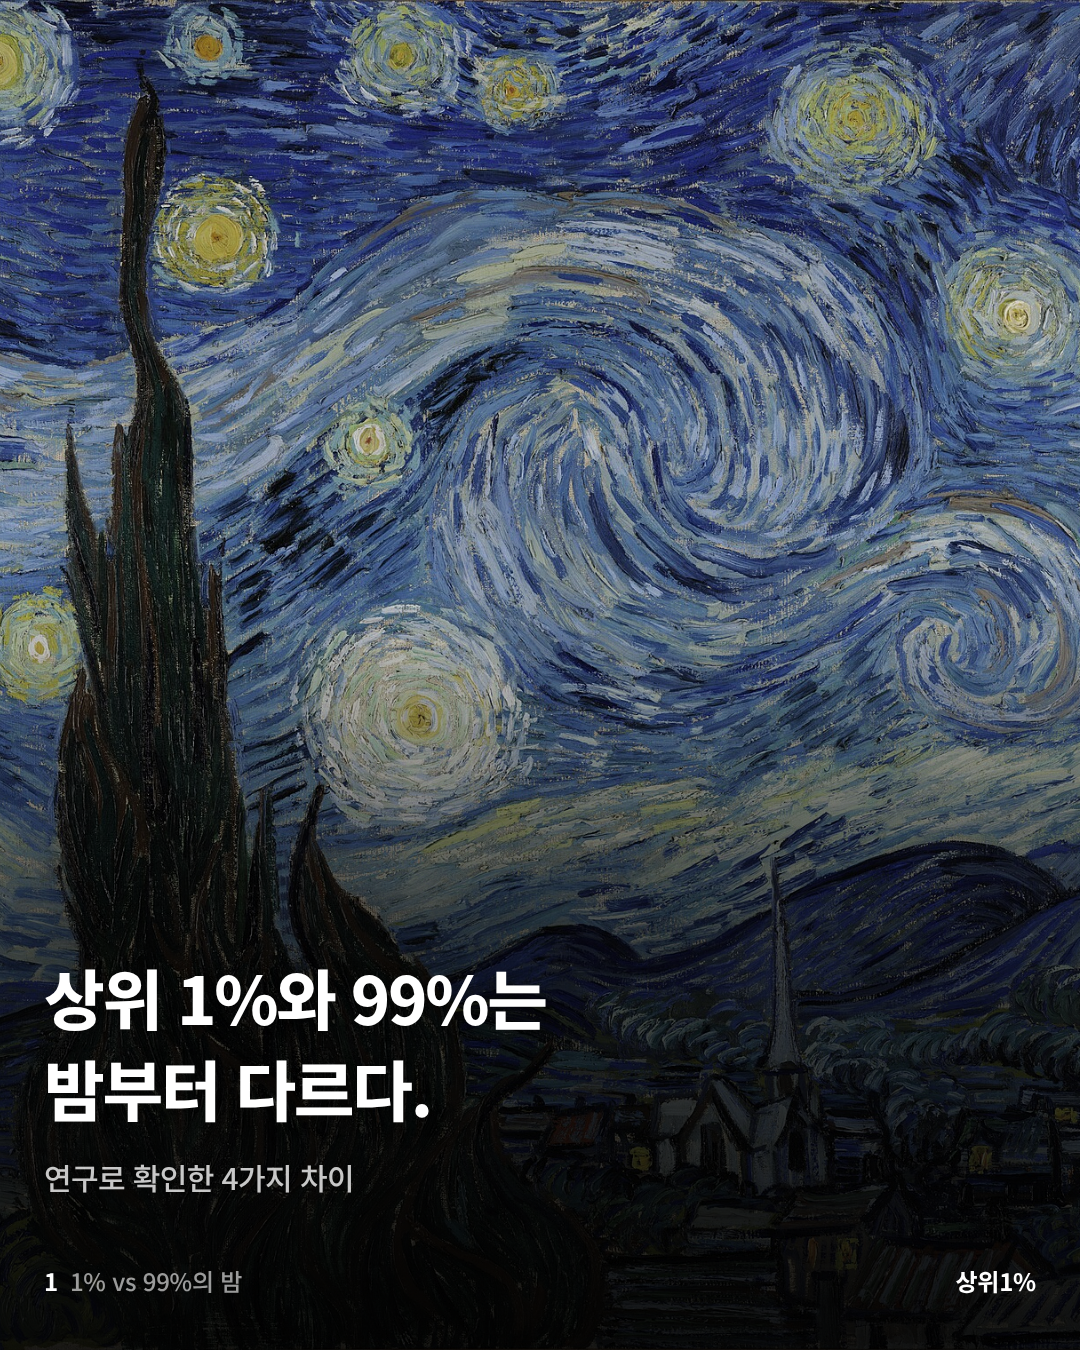
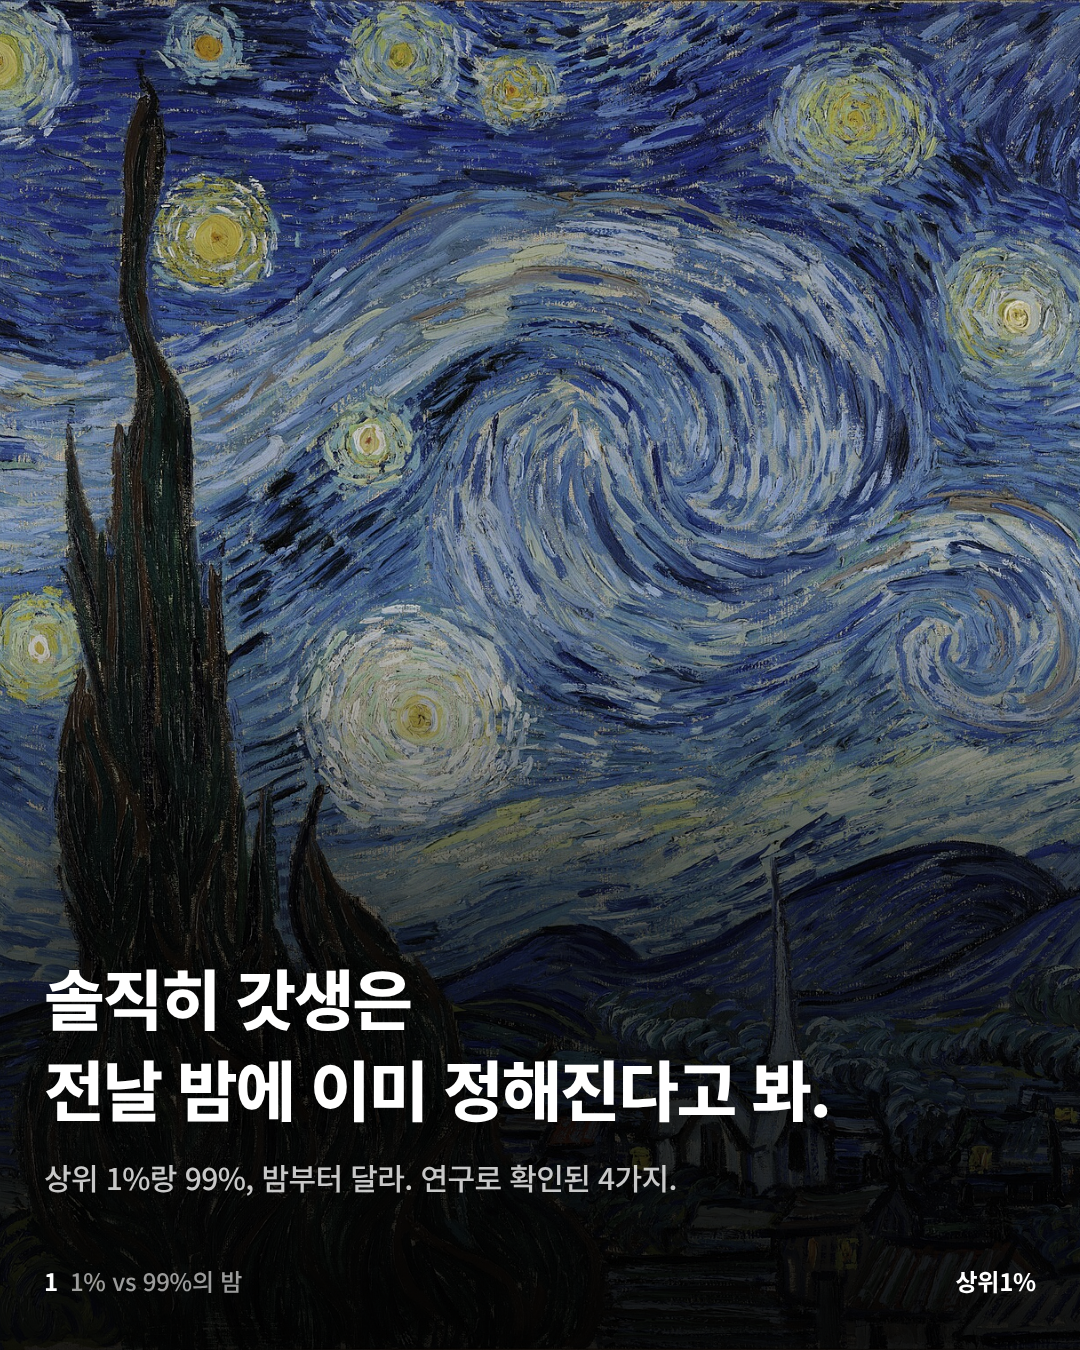
Use doodle character for 99% panels and casual tone copy
Claude-Session: https://claude.ai/code/session_01YBPD5mubkv2zYvzfUqKigS

Changed region(s): [[0.0306, 0.7156, 0.7639, 0.9022]]

diff --git a/carousel/styles/doodle-scenes.html b/carousel/styles/doodle-scenes.html
@@ -1,0 +1,202 @@
+<!doctype html>
+<html lang="ko">
+<head>
+<meta charset="utf-8">
+<title>99% 손그림 장면</title>
+<link href="https://fonts.googleapis.com/css2?family=Gaegu:wght@400;700&display=swap" rel="stylesheet">
+<style>
+  * { margin: 0; padding: 0; box-sizing: border-box; }
+  body { background: #ddd; padding: 40px; width: 1160px; }
+  .scene { width: 1080px; height: 675px; margin-bottom: 40px; }
+  .scene svg { display: block; width: 1080px; height: 675px; }
+</style>
+</head>
+<body>
+<div class="scene" id="study"></div>
+<div class="scene" id="weekend"></div>
+<div class="scene" id="workout"></div>
+<script>
+const INK = '#232323';
+const S = `stroke="${INK}" stroke-width="4" stroke-linejoin="round" stroke-linecap="round"`;
+const C = { wall:'#fbf8f1', stripe:'#f3ecdf', floor:'#f1e6d3', skin:'#ffe2d1', hair:'#5a4036', hairHi:'#7a5a4c',
+  blush:'#ff8f8f', hoodie:'#a9bcff', curtain:'#c9b8ff', curtainFold:'#b5a1ff', wood:'#f0cf9f', yellow:'#ffe27a', pink:'#ffc2d4',
+  blue:'#9fd4ff', mint:'#a8e89a', red:'#ff6b6b' };
+const FONT = `font-family="Gaegu" font-weight="700" fill="${INK}"`;
+
+function defs(id) {
+  return `<defs>
+  <filter id="rough-${id}"><feTurbulence type="fractalNoise" baseFrequency=".03" numOctaves="2" seed="7"/><feDisplacementMap in="SourceGraphic" scale="5"/></filter>
+  <pattern id="hatch-${id}" width="14" height="14" patternUnits="userSpaceOnUse" patternTransform="rotate(35)"><line x1="0" y1="0" x2="0" y2="14" stroke="#fff" stroke-width="3" opacity=".55"/></pattern>
+  <radialGradient id="glow-${id}" cx="50%" cy="50%" r="50%"><stop offset="0" stop-color="${C.blue}" stop-opacity=".35"/><stop offset="1" stop-color="${C.blue}" stop-opacity="0"/></radialGradient>
+  <radialGradient id="lamp-${id}" cx="50%" cy="0%" r="100%"><stop offset="0" stop-color="#fff3b0" stop-opacity=".8"/><stop offset="1" stop-color="#fff3b0" stop-opacity="0"/></radialGradient>
+  </defs>`;
+}
+function room() {
+  return `<rect width="1080" height="675" fill="${C.wall}"/>
+  <g fill="${C.stripe}" opacity=".6">${Array.from({length:9},(_,i)=>`<rect x="${i*130-20}" y="0" width="48" height="560"/>`).join('')}</g>
+  <rect y="560" width="1080" height="115" fill="${C.floor}"/>`;
+}
+function windowAt(x, day, id) {
+  const sky = day ? '#cdeeff' : '#3a4377';
+  const inner = day
+    ? `<circle cx="${x+80}" cy="150" r="32" fill="#ffd86b" ${S}/>
+       <g stroke="${INK}" stroke-width="4" stroke-linecap="round">${[0,45,90,135,180,225,270,315].map(a=>{const r=Math.PI*a/180;return `<line x1="${x+80+Math.cos(r)*44}" y1="${150+Math.sin(r)*44}" x2="${x+80+Math.cos(r)*58}" y2="${150+Math.sin(r)*58}"/>`}).join('')}</g>
+       <path d="M${x+130} 250 q0 -24 26 -22 q8 -18 30 -10 q22 2 20 24 q14 2 12 16 h-88z" fill="#fff" ${S}/>`
+    : `<circle cx="${x+170}" cy="150" r="34" fill="${C.yellow}"/><circle cx="${x+188}" cy="138" r="32" fill="${sky}"/>
+       <g fill="#fff"><circle cx="${x+40}" cy="130" r="3"/><circle cx="${x+90}" cy="180" r="2.5"/><circle cx="${x+60}" cy="250" r="3"/><circle cx="${x+130}" cy="230" r="2"/></g>`;
+  return `<rect x="${x}" y="86" width="240" height="240" rx="14" fill="#fff" ${S}/>
+  <rect x="${x+10}" y="96" width="220" height="220" rx="10" fill="${sky}" ${S}/>
+  <clipPath id="w-${id}"><rect x="${x+10}" y="96" width="220" height="220" rx="10"/></clipPath>
+  <g clip-path="url(#w-${id})">${inner}</g>
+  <path d="M${x+120} 96 v220 M${x+10} 206 h220" stroke="${INK}" stroke-width="4"/>
+  <path d="M${x-26} 70 h70 q-10 120 18 280 h-88z" fill="${C.curtain}" ${S}/>
+  <path d="M${x+196} 70 h70 v280 h-88 q28 -160 18 -280z" fill="${C.curtain}" ${S}/>
+  <path d="M${x-4} 90 q-6 120 14 250 M${x+242} 90 q6 120 -14 250" stroke="${C.curtainFold}" stroke-width="6" fill="none" stroke-linecap="round"/>
+  <rect x="${x-40}" y="62" width="320" height="14" rx="7" fill="${C.wood}" ${S}/>`;
+}
+// 캐릭터 얼굴 (원본 좌표: 중심 650,402 / 반지름 70)
+function head(cx, cy, r, eyes, mouth) {
+  const s = r / 70;
+  const E = {
+    tired: `<g stroke="${INK}" stroke-width="5" stroke-linecap="round" fill="none"><path d="M614 420 q14 -6 28 0"/><path d="M660 420 q14 -6 28 0"/></g>
+            <ellipse cx="628" cy="428" rx="7" ry="5" fill="${INK}"/><ellipse cx="674" cy="428" rx="7" ry="5" fill="${INK}"/>
+            <path d="M614 440 q14 8 28 0 M660 440 q14 8 28 0" stroke="#8a7bd6" stroke-width="4" fill="none"/>`,
+    closed: `<path d="M614 424 q14 10 28 0 M660 424 q14 10 28 0" stroke="${INK}" stroke-width="5" fill="none" stroke-linecap="round"/>`,
+    xx: `<path d="M616 414 l18 11 l-18 11 M686 414 l-18 11 l18 11" stroke="${INK}" stroke-width="5" fill="none" stroke-linecap="round" stroke-linejoin="round"/>`
+  }[eyes];
+  const M = {
+    o: `<ellipse cx="652" cy="458" rx="5" ry="4" fill="${INK}"/>`,
+    line: `<path d="M642 458 h20" stroke="${INK}" stroke-width="4" stroke-linecap="round"/>`,
+    drool: `<path d="M640 456 q12 6 24 0" stroke="${INK}" stroke-width="4" fill="none" stroke-linecap="round"/><path d="M662 460 q4 12 0 16 q-6 -4 0 -16z" fill="${C.blue}" stroke="${INK}" stroke-width="2"/>`,
+    open: `<path d="M640 452 q12 18 24 0z" fill="#e0607a" stroke="${INK}" stroke-width="4" stroke-linejoin="round"/>`
+  }[mouth];
+  return `<g transform="translate(${cx - 650*s} ${cy - 402*s}) scale(${s})">
+    <circle cx="650" cy="402" r="70" fill="${C.skin}" ${S}/>
+    <path d="M576 420 C560 330 630 296 690 312 C742 326 736 384 726 418 L716 386 L703 400 L690 377 L675 397 L660 372 L645 395 L629 372 L614 397 L600 378 L590 410 Z" fill="${C.hair}" ${S}/>
+    <path d="M646 318 q-14 -34 18 -44 q-8 18 -2 38" fill="${C.hair}" ${S}/>
+    <path d="M612 336 q22 -18 58 -16" stroke="${C.hairHi}" stroke-width="6" fill="none" stroke-linecap="round"/>
+    ${E}
+    <ellipse cx="606" cy="446" rx="13" ry="7" fill="${C.blush}" opacity=".6"/><ellipse cx="696" cy="446" rx="13" ry="7" fill="${C.blush}" opacity=".6"/>
+    ${M}
+  </g>`;
+}
+function bubble(cx, cy, rx, text, tail) {
+  const [t1, t2] = tail;
+  return `<g filter="url(#rough-ROUGH)"><circle cx="${t1[0]}" cy="${t1[1]}" r="8" fill="#fff" ${S}/><circle cx="${t2[0]}" cy="${t2[1]}" r="12" fill="#fff" ${S}/>
+    <ellipse cx="${cx}" cy="${cy}" rx="${rx}" ry="52" fill="#fff" ${S}/></g>
+    <text x="${cx}" y="${cy + 12}" text-anchor="middle" ${FONT} font-size="36">${text}</text>`;
+}
+function wrap(id, body) {
+  return `<svg viewBox="0 0 1080 675" xmlns="http://www.w3.org/2000/svg">${defs(id)}${room()}${body.replaceAll('ROUGH', id)}</svg>`;
+}
+
+/* ---------- 새벽 공부 ---------- */
+const study = wrap('study', `
+<g filter="url(#rough-study)">
+  ${windowAt(100, false, 'study')}
+  <circle cx="480" cy="128" r="46" fill="#fff" ${S}/>
+  <path d="M480 128 L492 106 M480 128 L480 92" stroke="${INK}" stroke-width="5" stroke-linecap="round"/>
+  <circle cx="480" cy="128" r="4" fill="${INK}"/>
+  <g transform="rotate(-5 640 150)"><rect x="580" y="104" width="120" height="92" fill="${C.pink}" ${S}/></g>
+</g>
+<g transform="rotate(-5 640 150)"><text x="640" y="146" text-anchor="middle" ${FONT} font-size="32">마감</text><text x="640" y="182" text-anchor="middle" ${FONT} font-size="34" fill="${C.red}">D-1</text></g>
+
+<circle cx="690" cy="330" r="220" fill="url(#glow-study)"/>
+<g filter="url(#rough-study)">
+  <path d="M592 440 q0 -98 98 -98 q98 0 98 98z" fill="${C.hoodie}" ${S}/>
+  <path d="M668 350 l22 30 l22 -30" fill="none" stroke="${INK}" stroke-width="4"/>
+</g>
+${head(690, 280, 62, 'tired', 'line')}
+<g filter="url(#rough-study)">
+  <rect x="588" y="332" width="204" height="96" rx="10" fill="#e9e9f2" ${S}/>
+  <path d="M676 368 l10 -14 l10 14 l-10 14z" fill="${C.yellow}" ${S}/>
+  <circle cx="574" cy="424" r="15" fill="${C.skin}" ${S}/><circle cx="806" cy="424" r="15" fill="${C.skin}" ${S}/>
+  <rect x="360" y="424" width="650" height="26" rx="6" fill="${C.wood}" ${S}/>
+  <rect x="384" y="450" width="20" height="110" fill="${C.wood}" ${S}/><rect x="966" y="450" width="20" height="110" fill="${C.wood}" ${S}/>
+  <g transform="rotate(-3 460 380)">
+    <rect x="396" y="394" width="128" height="26" rx="4" fill="#ff9f9f" ${S}/>
+    <rect x="404" y="368" width="112" height="26" rx="4" fill="${C.blue}" ${S}/>
+    <rect x="392" y="342" width="132" height="26" rx="4" fill="${C.yellow}" ${S}/>
+  </g>
+  <rect x="826" y="380" width="38" height="44" rx="6" fill="#ffb59a" ${S}/><path d="M864 390 q16 2 14 14 q-2 10 -14 10" fill="none" ${S}/>
+  <rect x="884" y="376" width="38" height="48" rx="6" fill="#d9c8ff" ${S}/><path d="M922 388 q16 2 14 14 q-2 10 -14 10" fill="none" ${S}/>
+  <rect x="944" y="368" width="26" height="56" rx="6" fill="${C.mint}" ${S}/>
+</g>
+${bubble(880, 236, 150, '조금만 더 버티자…', [[780, 296], [806, 272]])}
+`);
+
+/* ---------- 주말 몰아 자기 ---------- */
+const weekend = wrap('weekend', `
+<g filter="url(#rough-weekend)">
+  ${windowAt(100, true, 'weekend')}
+  <rect x="580" y="88" width="170" height="150" rx="8" fill="#fff" ${S}/>
+  <rect x="580" y="88" width="170" height="40" rx="8" fill="${C.red}" ${S}/>
+  <path d="M612 80 v18 M718 80 v18" stroke="${INK}" stroke-width="5" stroke-linecap="round"/>
+</g>
+<text x="665" y="118" text-anchor="middle" font-family="Gaegu" font-weight="700" font-size="28" fill="#fff">토요일</text>
+<text x="665" y="196" text-anchor="middle" ${FONT} font-size="38">늦잠 DAY</text>
+
+<g filter="url(#rough-weekend)">
+  <rect x="360" y="430" width="150" height="130" rx="10" fill="${C.wood}" ${S}/>
+  <path d="M372 492 h126" stroke="${INK}" stroke-width="4"/>
+  <circle cx="435" cy="462" r="6" fill="${INK}"/><circle cx="435" cy="525" r="6" fill="${INK}"/>
+  <rect x="372" y="556" width="14" height="20" fill="${INK}"/><rect x="484" y="556" width="14" height="20" fill="${INK}"/>
+  <rect x="368" y="384" width="80" height="46" rx="10" fill="#fff" ${S}/>
+  <path d="M530 470 v-130 q0 -40 40 -40 h400 q40 0 40 40 v130z" fill="#b7c6ff" ${S}/>
+  <rect x="510" y="440" width="520" height="122" rx="24" fill="#fff" ${S}/>
+  <rect x="520" y="556" width="18" height="24" fill="${INK}"/><rect x="1002" y="556" width="18" height="24" fill="${INK}"/>
+  <ellipse cx="650" cy="442" rx="118" ry="44" fill="#fff" ${S}/>
+</g>
+<text x="408" y="416" text-anchor="middle" font-family="monospace" font-weight="700" font-size="22" fill="${C.red}">14:20</text>
+${head(650, 408, 70, 'closed', 'drool')}
+<g filter="url(#rough-weekend)">
+  <path d="M560 470 q30 -30 110 -10 q60 14 120 -6 q120 -30 220 4 v104 h-450z" fill="#a9c9ff" ${S}/>
+  <path d="M562 470 q30 -30 110 -10 q60 14 120 -6 q120 -30 220 4 l0 22 q-100 -30 -220 4 q-60 18 -120 4 q-80 -16 -110 10z" fill="#cfe0ff" ${S}/>
+  <rect x="456" y="414" width="48" height="16" rx="5" fill="${INK}"/>
+  <circle cx="500" cy="404" r="13" fill="${C.red}" ${S}/>
+</g>
+<rect x="580" y="490" width="430" height="70" fill="url(#hatch-weekend)"/>
+<text x="500" y="411" text-anchor="middle" font-family="Gaegu" font-weight="700" font-size="20" fill="#fff">9</text>
+<g ${FONT}><text x="742" y="352" font-size="34">z</text><text x="770" y="316" font-size="44">Z</text><text x="806" y="270" font-size="56">Z</text></g>
+${bubble(912, 238, 142, '밀린 잠 몰아서…', [[850, 300], [868, 278]])}
+`);
+
+/* ---------- 주말에만 운동 ---------- */
+const days = ['월','화','수','목','금','토','일'];
+const workout = wrap('workout', `
+<g filter="url(#rough-workout)">
+  ${windowAt(800, true, 'workout')}
+  <rect x="110" y="86" width="560" height="150" rx="10" fill="#fff" ${S}/>
+  <path d="M110 128 h560 ${days.slice(1).map((_,i)=>`M${110+80*(i+1)} 86 v150`).join(' ')}" stroke="${INK}" stroke-width="3" fill="none"/>
+  <ellipse cx="630" cy="184" rx="34" ry="34" fill="none" stroke="${C.red}" stroke-width="5"/>
+</g>
+<g ${FONT} font-size="28">${days.map((d,i)=>`<text x="${150+80*i}" y="118" text-anchor="middle" ${d==='일'?`fill="${C.red}"`:''}>${d}</text>`).join('')}</g>
+<g ${FONT} font-size="30" fill="#b8b0a4">${days.slice(0,6).map((d,i)=>`<text x="${150+80*i}" y="196" text-anchor="middle">-</text>`).join('')}</g>
+<text x="630" y="194" text-anchor="middle" ${FONT} font-size="26" fill="${C.red}">운동!!</text>
+
+<g filter="url(#rough-workout)">
+  <rect x="170" y="528" width="620" height="28" rx="12" fill="${C.curtain}" ${S}/>
+  <rect x="590" y="486" width="150" height="44" rx="20" fill="#7d7d9a" ${S}/>
+  <ellipse cx="752" cy="508" rx="16" ry="20" fill="#fff" ${S}/>
+  <rect x="360" y="462" width="250" height="72" rx="34" fill="${C.hoodie}" ${S}/>
+  <rect x="380" y="430" width="140" height="30" rx="15" fill="${C.hoodie}" ${S}/>
+  <circle cx="520" cy="445" r="15" fill="${C.skin}" ${S}/>
+  <rect x="820" y="516" width="90" height="12" rx="6" fill="#999" ${S}/>
+  <rect x="806" y="496" width="22" height="52" rx="6" fill="${INK}"/><rect x="902" y="496" width="22" height="52" rx="6" fill="${INK}"/>
+  <rect x="950" y="460" width="34" height="96" rx="10" fill="${C.blue}" ${S}/><rect x="956" y="448" width="22" height="14" rx="3" fill="#fff" ${S}/>
+</g>
+${head(290, 478, 62, 'xx', 'open')}
+<g filter="url(#rough-workout)">
+  <path d="M206 410 q-10 16 0 22 q10 -6 0 -22z" fill="${C.blue}" ${S}/>
+  <path d="M372 400 q-10 16 0 22 q10 -6 0 -22z" fill="${C.blue}" ${S}/>
+  <path d="M236 382 q-8 13 0 18 q8 -5 0 -18z" fill="${C.blue}" ${S}/>
+</g>
+${bubble(560, 330, 160, '일주일 치 운동 끝…', [[380, 400], [410, 376]])}
+`);
+
+document.getElementById('study').innerHTML = study;
+document.getElementById('weekend').innerHTML = weekend;
+document.getElementById('workout').innerHTML = workout;
+</script>
+</body>
+</html>

diff --git a/carousel/04-ab-night/slides.html b/carousel/04-ab-night/slides.html
@@ -56,6 +56,12 @@
   .paper .foot .s { color: #888; }
   .paper .foot .s b { color: #111; }
   .paper .foot { color: #111; }
+  .half.a.doodle img { filter: none; }
+  .half.a.doodle .box { bottom: 30px; flex-direction: row; align-items: center; gap: 16px; }
+  .half.a.doodle .lab { background: #232323; color: #fff; border: none; }
+  .half.a.doodle .t { color: #232323; text-shadow: none; font-size: 44px; }
+  .eyebrow { left: auto !important; right: 36px; top: 36px !important; color: #232323 !important; background: rgba(251,248,241,.94); padding: 6px 16px; border-radius: 22px; }
+  .eyebrow span { color: #6b6257 !important; }
 </style>
 </head>
 <body>
@@ -65,8 +71,8 @@
   <img src="img/starry.jpg" style="object-position: 30% 50%;">
   <div class="shade"></div><div class="grain"></div>
   <div class="text">
-    <div class="title">상위 1%와 99%는<br>밤부터 다르다.</div>
-    <div class="note">연구로 확인한 4가지 차이</div>
+    <div class="title">솔직히 갓생은<br>전날 밤에 이미 정해진다고 봐.</div>
+    <div class="note">상위 1%랑 99%, 밤부터 달라. 연구로 확인된 4가지.</div>
   </div>
   <div class="foot"><span class="s"><b>1</b>1% vs 99%의 밤</span><span>상위1%</span></div>
 </section>
@@ -74,59 +80,55 @@
 <!-- 2 화면 -->
 <section class="slide">
   <div class="eyebrow">01<span>잠들기 전</span></div>
-  <div class="half a"><img src="../02-sleep-study-art/img/04-nightcafe.jpg" style="object-position: 45% 40%;"><div class="hs"></div>
-    <div class="box"><div class="lab">99%</div><div class="t">침대에서 릴스 보다<br>잠든다</div></div></div>
+  <div class="half a doodle"><img src="img/doodle-1-night.png"><div class="box"><div class="lab">99%</div><div class="t">침대에서 릴스 '딱 한 개만' 보다 잠듦</div></div></div>
   <div class="half b"><img src="img/gypsy.jpg" style="object-position: 40% 50%;"><div class="hs"></div>
-    <div class="box"><div class="lab">TOP 1%</div><div class="t">잠들기 전,<br>화면부터 끈다</div></div></div>
+    <div class="box"><div class="lab">TOP 1%</div><div class="t">자기 전에<br>화면부터 끔</div></div></div>
   <div class="divider"></div><div class="grain"></div>
-  <div class="foot"><span class="s"><b>2</b>잘 자게 된 학생들은 밤 화면 사용도 줄었다</span><span>상위1%</span></div>
+  <div class="foot"><span class="s"><b>2</b>실험에서 잘 자게 된 애들, 밤에 폰 보는 시간도 줄었대</span><span>상위1%</span></div>
 </section>
 
 <!-- 3 공부 시간대 -->
 <section class="slide">
   <div class="eyebrow">02<span>공부하는 시간</span></div>
-  <div class="half a"><img src="../02-sleep-study-art/img/02-orrery.jpg" style="object-position: 30% 45%;"><div class="hs"></div>
-    <div class="box"><div class="lab">99%</div><div class="t">새벽 1시까지<br>버티며 공부한다</div></div></div>
+  <div class="half a doodle"><img src="img/doodle-2-study.png"><div class="box"><div class="lab">99%</div><div class="t">새벽 1시까지 버티면서 공부함</div></div></div>
   <div class="half b"><img src="img/milkmaid.jpg" style="object-position: 50% 30%;"><div class="hs"></div>
-    <div class="box"><div class="lab">TOP 1%</div><div class="t">같은 공부를<br>아침에 한다</div></div></div>
+    <div class="box"><div class="lab">TOP 1%</div><div class="t">같은 공부를<br>아침에 함</div></div></div>
   <div class="divider"></div><div class="grain"></div>
-  <div class="foot"><span class="s"><b>3</b>공부 시간은 같았지만, 아침으로 옮긴 학생들의 학점이 올랐다</span><span>상위1%</span></div>
+  <div class="foot"><span class="s"><b>3</b>공부 시간은 똑같았는데 아침으로 옮긴 애들 학점이 올랐대</span><span>상위1%</span></div>
 </section>
 
 <!-- 4 리듬 -->
 <section class="slide">
   <div class="eyebrow">03<span>잠드는 시간</span></div>
-  <div class="half a"><img src="../02-sleep-study-art/img/05-flamingjune.jpg" style="object-position: 50% 45%;"><div class="hs"></div>
-    <div class="box"><div class="lab">99%</div><div class="t">평일엔 줄이고<br>주말에 몰아 잔다</div></div></div>
+  <div class="half a doodle"><img src="img/doodle-3-weekend.png"><div class="box"><div class="lab">99%</div><div class="t">평일엔 줄이고 주말에 몰아서 잠</div></div></div>
   <div class="half b"><img src="../02-sleep-study-art/img/08-bedroom.jpg" style="object-position: 60% 50%;"><div class="hs"></div>
-    <div class="box"><div class="lab">TOP 1%</div><div class="t">매일 비슷한 시간에<br>잠든다</div></div></div>
+    <div class="box"><div class="lab">TOP 1%</div><div class="t">매일 비슷한<br>시간에 잠</div></div></div>
   <div class="divider"></div><div class="grain"></div>
-  <div class="foot"><span class="s"><b>4</b>리듬이 불규칙한 유형은 치매 위험이 더 높았다 (60세 이상 관찰 연구)</span><span>상위1%</span></div>
+  <div class="foot"><span class="s"><b>4</b>리듬 불규칙한 유형이 치매 위험 더 높았대 (60세 이상 관찰 연구)</span><span>상위1%</span></div>
 </section>
 
 <!-- 5 운동 -->
 <section class="slide">
   <div class="eyebrow">04<span>움직이는 방식</span></div>
-  <div class="half a"><img src="img/jatte.jpg" style="object-position: 55% 55%;"><div class="hs"></div>
-    <div class="box"><div class="lab">99%</div><div class="t">운동은 주말에<br>한 번 몰아서</div></div></div>
+  <div class="half a doodle"><img src="img/doodle-4-workout.png"><div class="box"><div class="lab">99%</div><div class="t">운동은 주말에 한 번 몰아서 함</div></div></div>
   <div class="half b"><img src="../02-sleep-study-art/img/10-wanderer.jpg" style="object-position: 50% 32%;"><div class="hs"></div>
-    <div class="box"><div class="lab">TOP 1%</div><div class="t">매일 10분이라도<br>움직인다</div></div></div>
+    <div class="box"><div class="lab">TOP 1%</div><div class="t">매일 10분이라도<br>움직임</div></div></div>
   <div class="divider"></div><div class="grain"></div>
-  <div class="foot"><span class="s"><b>5</b>매일 10분의 운동도 더 깊은 잠과 연관이 있었다</span><span>상위1%</span></div>
+  <div class="foot"><span class="s"><b>5</b>매일 10분 운동도 깊은 잠이랑 연관 있었대</span><span>상위1%</span></div>
 </section>
 
 <!-- 6 요약 -->
 <section class="slide paper">
   <div class="inner">
     <div class="kick">SAVE THIS</div>
-    <h2>오늘 밤,<br>나는 어느 쪽일까?</h2>
+    <h2>오늘 밤,<br>너는 어느 쪽이야?</h2>
     <table>
       <tr><th class="lo">99%</th><th>TOP 1%</th></tr>
-      <tr><td class="lo">침대에서 릴스 보다 잠든다</td><td class="hi">잠들기 전, 화면부터 끈다</td></tr>
-      <tr><td class="lo">새벽까지 버티며 공부한다</td><td class="hi">같은 공부를 아침에 한다</td></tr>
-      <tr><td class="lo">주말에 몰아 잔다</td><td class="hi">매일 비슷한 시간에 잔다</td></tr>
-      <tr><td class="lo">운동은 주말에 몰아서</td><td class="hi">매일 10분이라도 움직인다</td></tr>
-      <tr><td class="lo">기상 알람만 맞춘다</td><td class="hi">취침 알람도 맞춘다</td></tr>
+      <tr><td class="lo">릴스 보다 잠듦</td><td class="hi">자기 전에 화면부터 끔</td></tr>
+      <tr><td class="lo">새벽까지 버티면서 공부함</td><td class="hi">같은 공부를 아침에 함</td></tr>
+      <tr><td class="lo">주말에 몰아서 잠</td><td class="hi">매일 비슷한 시간에 잠</td></tr>
+      <tr><td class="lo">운동은 주말에 몰아서</td><td class="hi">매일 10분이라도 움직임</td></tr>
+      <tr><td class="lo">기상 알람만 맞춤</td><td class="hi">취침 알람도 맞춤</td></tr>
     </table>
   </div>
   <div class="foot"><span class="s"><b>6</b>1% vs 99%의 밤</span><span>상위1%</span></div>
@@ -136,12 +138,12 @@
 <section class="slide paper">
   <div class="inner">
     <div class="kick">SOURCES</div>
-    <h2>이 비교의 근거</h2>
+    <h2>이거 그냥 하는 말 아님</h2>
     <div class="src">
       <p>화면 · 공부 시간대 · 취침 알람<span>미국 대학생 1,100여 명 수면 보상 실험<br>Journal of Political Economy (2026)</span></p>
       <p>잠드는 시간의 규칙성<span>60세 이상 3,973명 12년 추적 관찰 연구<br>JAMA Network Open (2026.11)</span></p>
       <p>매일 10분의 운동<span>웨어러블 데이터 분석, 미국 UT 오스틴 (2026.10)</span></p>
-      <p>※ 대부분 관찰 연구라 '원인'이 아닌 '연관'을 보여줍니다.<span>대상과 조건이 달라 모두에게 같은 효과를 보장하지 않습니다.</span></p>
+      <p>※ 대부분 관찰 연구라 '원인'까진 아니고 '연관'이야.<span>대상이랑 조건이 달라서 사람마다 다를 수 있어.</span></p>
     </div>
   </div>
   <div class="foot"><span class="s"><b>7</b>1% vs 99%의 밤</span><span>상위1%</span></div>
@@ -152,8 +154,8 @@
   <img src="../02-sleep-study-art/img/09-rembrandt.jpg" style="object-position: 40% 50%;">
   <div class="shade"></div><div class="grain"></div>
   <div class="text">
-    <div class="title">당신의 밤은<br>어느 쪽에 가까운가요?</div>
-    <div class="note">댓글로 '1%' 또는 '99%'를 남겨주세요.<br>밤새우는 친구에게 공유해도 좋아요.</div>
+    <div class="title">너는 솔직히<br>어느 쪽이야?</div>
+    <div class="note">댓글로 '1%'나 '99%' 남겨줘.<br>밤새는 친구 있으면 태그하고.</div>
   </div>
   <div class="foot"><span class="s"><b>8</b>1% vs 99%의 밤</span><span>상위1%</span></div>
 </section>
